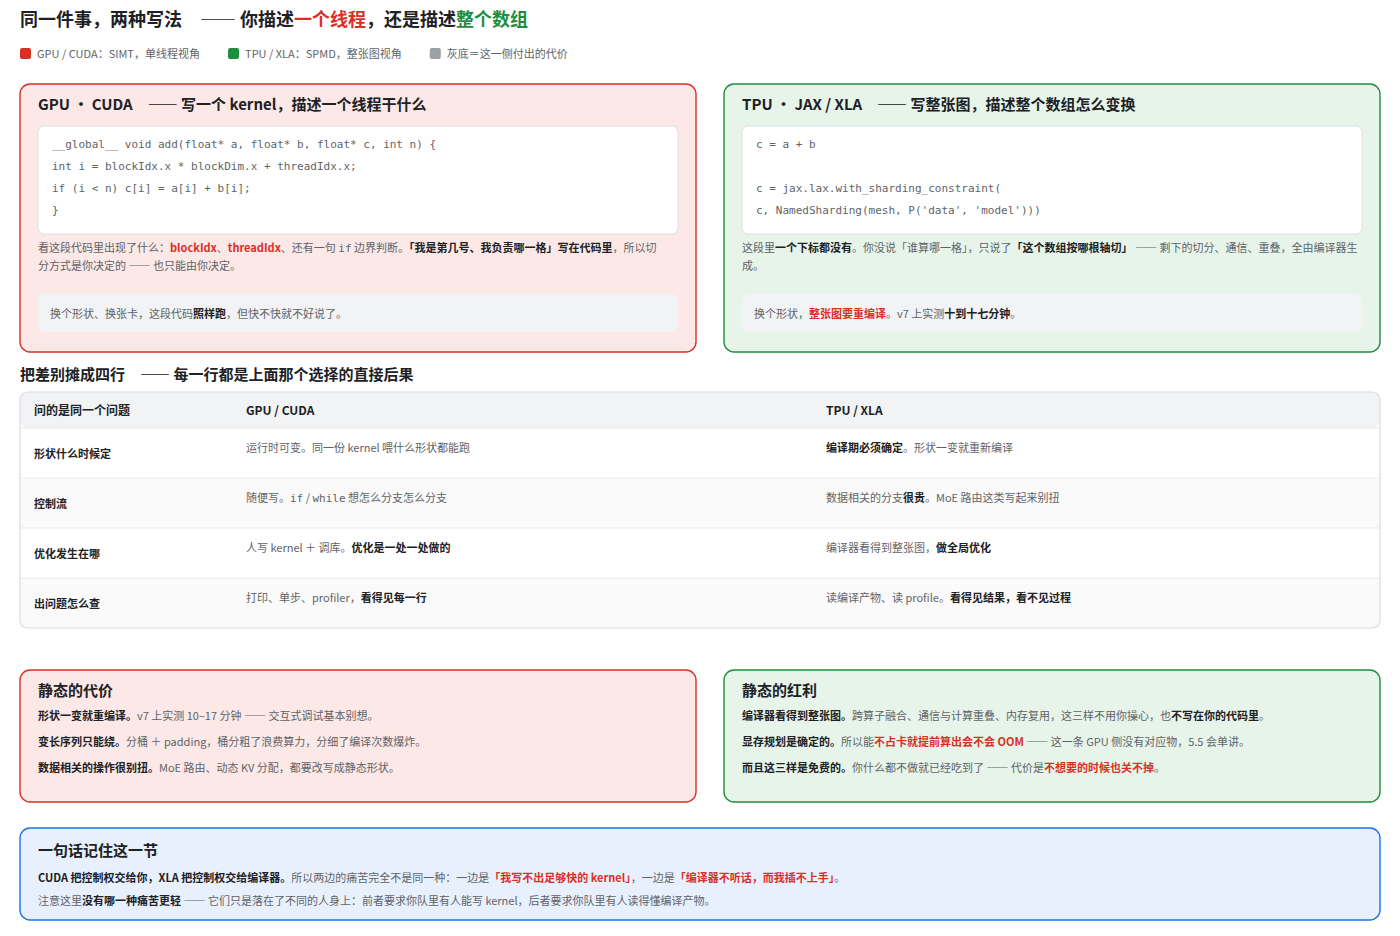
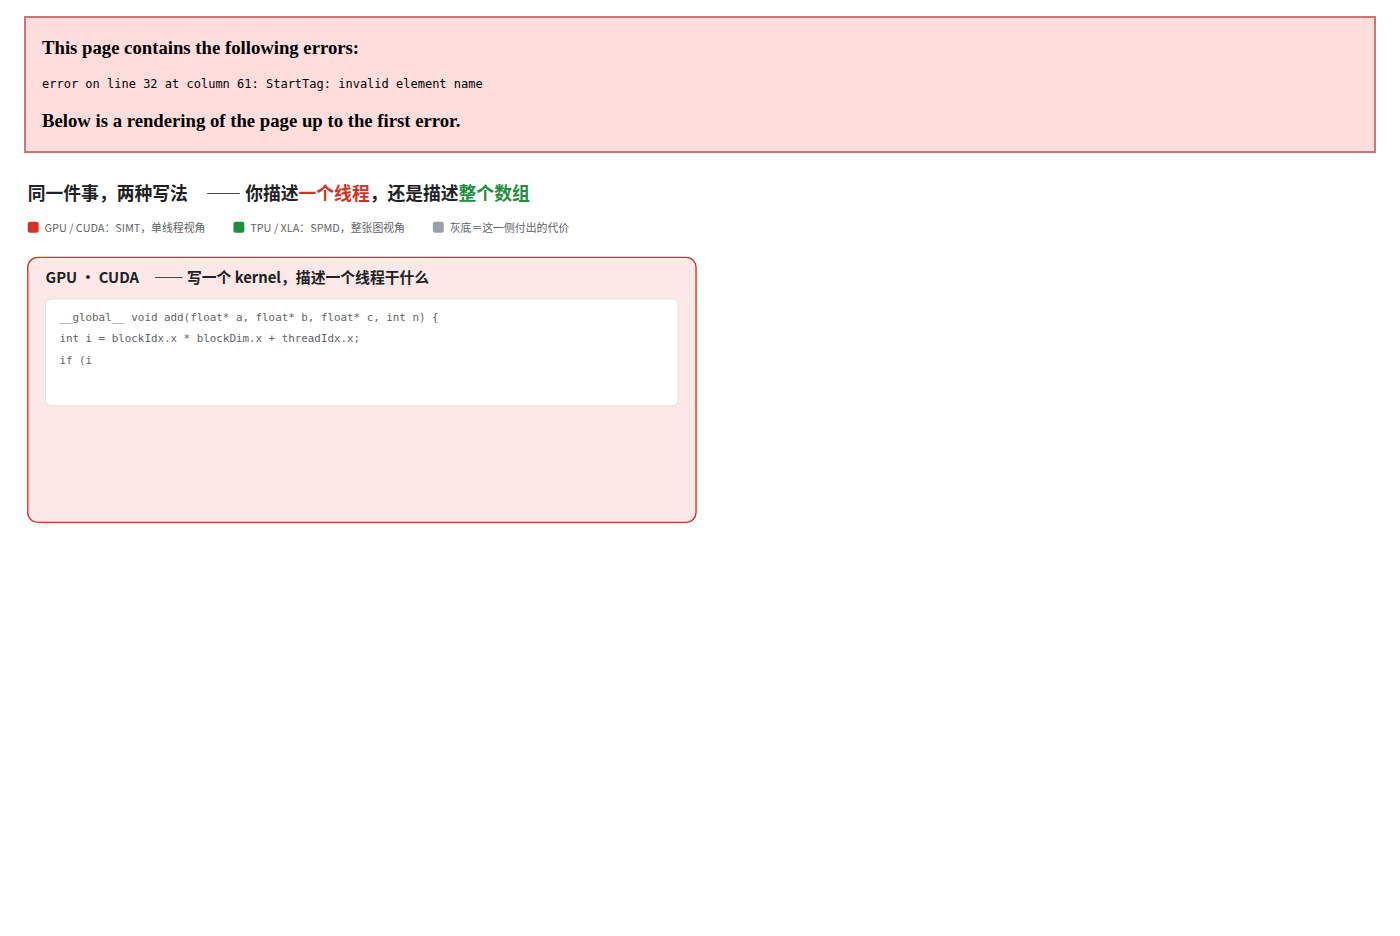
专题二 3.2：P-26 补「差的是一个平方」+ 把实体自检从 &nbsp; 拓宽到全部 &...;
Chris 复述理解时问到了最后一层：横向 128 条彼此完全隔离，
纵向倒是有前后顺序。顺着这个问题补上了前面一直欠的「为什么」——
之前每张图都在说横着走贵，但没给过量化的原因。

原因是一个数：让一组数任意互换位置，开关数按 N² 涨。
sublane 方向 8 见方 = 64，lane 方向 128 见方 = 16,384，差 256 倍。
所以 8 那个网络小到能摊进每条 lane、一周期转完；
128 那个只能全核共享一两个还得排队。

顺带修两个渲染 bug：

1. common.py 的实体自检原来只挡 &nbsp;，这次写 &#8194; 又中了——
   数字引用本来是合法 XML，但 para() 会先把 & 转成 &amp;，照样成字面量。
   自检拓宽到 &命名; / &#十进制; / &#x十六进制; 三种全挡。

2. 拓宽后立刻抓出一个存量 bug：fig_p1_mindset 手动做了
   .replace("<", "&lt;")，而 f.t() 内部已经 escape 过——双重转义，
   屏幕上一直显示的是字面的 &lt;。已修。P-1 在此之前一直是错的。

内部词自检 29 项 0 命中。

diff --git a/Courses/WebPages/topic-02.html b/Courses/WebPages/topic-02.html
@@ -3596,7 +3596,7 @@ footer a{text-decoration:none}
     每一条 lane 是一整套自己的 ALU。于是同一批数，
     <b>上下走和横着走根本不是一回事</b> ——&nbsp;</p>
 <figure class="fbox fwide" id="ms-p26">
-<svg viewBox="0 0 1400 882" width="100%" xmlns="http://www.w3.org/2000/svg" role="img" aria-label="TPU 向量寄存器 8×128 的方向不对称：沿 sublane 轴归约三步就完，沿 lane 轴归约必须经过 XLU，而公开资料称它慢且贵">
+<svg viewBox="0 0 1400 1008" width="100%" xmlns="http://www.w3.org/2000/svg" role="img" aria-label="TPU 向量寄存器 8×128 的方向不对称：沿 sublane 轴归约三步就完，沿 lane 轴归约必须经过 XLU，而公开资料称它慢且贵">
 <text x="20" y="26" class="ttl">同一张 8 × 128 的座位表　—— <tspan font-weight="700">上下走三步就完，横着走要另找一个单元</tspan></text>
 <rect x="20" y="48" width="11" height="11" rx="2" fill="#1e8e3e"/>
 <text x="37" y="58" class="sm">纵向 · 沿 sublane 轴（8）</text>
@@ -3869,10 +3869,14 @@ footer a{text-decoration:none}
 <text x="38" y="676" class="sec">⭐ 麻烦的是：神经网络最常做的那两个归约，方向恰好都是横的</text>
 <text x="38" y="702" class="xs">张量的<tspan font-weight="700" fill="#202124">最后一维默认铺在 lane 方向</tspan>上。而 <tspan class="mono" fill="#1967d2">softmax</tspan> 沿最后一维求和，<tspan class="mono" fill="#1967d2">RMSNorm</tspan> 也沿最后一维求和 —— <tspan font-weight="700" fill="#202124">两个最常见的算子，都撞在上面那条最贵的路上。</tspan></text>
 <text x="38" y="725" class="sm" fill="#202124">这就是为什么在 TPU 上，attention 里 softmax 那一段<tspan font-weight="700" fill="#202124">经常比你按 FLOP 算出来的贵得多</tspan>：<tspan font-weight="700" fill="#d93025">贵的不是算，是把数横着挪。</tspan></text>
-<rect x="20" y="770" width="1360" height="92" rx="10" fill="#fce8e6" stroke="#d93025" stroke-width="1.4"/>
-<text x="38" y="798" class="sec">⚠ 一个说法要收回：贵不是因为「没有连线」</text>
-<text x="38" y="824" class="xs">这张图早先的版本写着「列与列之间没有直连通路」——那是想当然，已经删掉。公开资料的说法是：跨 lane <tspan font-weight="700" fill="#202124">至少要过一趟 VMEM／XLU／SMEM</tspan> ——<tspan font-weight="700" fill="#d93025">贵在「出一趟寄存器堆」这个往返，不在缺一根线。</tspan></text>
-<text x="38" y="845" class="xs">下一张图把这个往返画出来。<tspan font-weight="700" fill="#202124">仍然没有出处的只剩一件事：XLU 的内部电路</tspan> ——公开资料只说它是个独立单元、而且慢，没说它里面长什么样。</text>
+<rect x="20" y="770" width="1360" height="104" rx="10" fill="#e0f2f0" stroke="#12786f" stroke-width="1.6"/>
+<text x="38" y="798" class="sec" fill="#12786f">⭐ 那为什么 8 那个方向便宜、128 那个方向就得专门做个单元？—— 差的是一个平方</text>
+<text x="38" y="824" class="xs">要让一组数<tspan font-weight="700" fill="#202124">任意互换位置</tspan>，需要的开关数按 <tspan font-weight="700" fill="#202124">N²</tspan> 涨。sublane 方向 <tspan font-weight="700" fill="#202124">8 见方 ＝ 64</tspan>；lane 方向 <tspan font-weight="700" fill="#202124">128 见方 ＝ 16,384</tspan> —— <tspan font-weight="700" fill="#d93025">差 256 倍。</tspan></text>
+<text x="38" y="847" class="xs">所以 8 那个网络<tspan font-weight="700" fill="#202124">小到可以摊进每一条 lane 里</tspan>，一个周期就转完；128 那个<tspan font-weight="700" fill="#202124">只能全核共享一两个</tspan>，还得排队。<tspan fill="#9aa0a6">⚠ N² 是数字设计通则，不是 TPU 的公开规格 —— 这里用它解释数量级。</tspan></text>
+<rect x="20" y="896" width="1360" height="92" rx="10" fill="#fce8e6" stroke="#d93025" stroke-width="1.4"/>
+<text x="38" y="924" class="sec">⚠ 一个说法要收回：贵不是因为「没有连线」</text>
+<text x="38" y="950" class="xs">这张图早先的版本写着「列与列之间没有直连通路」——那是想当然，已经删掉。公开资料的说法是：跨 lane <tspan font-weight="700" fill="#202124">至少要过一趟 VMEM／XLU／SMEM</tspan> ——<tspan font-weight="700" fill="#d93025">贵在「出一趟寄存器堆」这个往返，不在缺一根线。</tspan></text>
+<text x="38" y="971" class="xs">下一张图把这个往返画出来。<tspan font-weight="700" fill="#202124">仍然没有出处的只剩一件事：XLU 的内部电路</tspan> ——公开资料只说它是个独立单元、而且慢，没说它里面长什么样。</text>
 </svg>
 <figcaption>整张图就一件事：<b>同一个寄存器、同一批数，换个方向，代价完全不同</b>。绿的那一列是<b>纵向</b> —— 8 → 4 → 2 → 1，三步，全程没离开自己那套 ALU；红的那一行是<b>横向</b> —— 128 条 lane 各是一套硬件，数要横着走只能交给 <b>XLU</b>，而且往往还得绕一趟 VMEM。<b>黄带才是这张图真正要落的地方</b>：<code>softmax</code> 和 <code>RMSNorm</code> 都沿最后一维求和，而最后一维默认就铺在 lane 方向上 —— <b>最常做的那两个归约，恰好都撞在最贵的方向</b>。⚠ 底带那条不能跳过：<b>「列与列之间没有直连通路」是我给的解释，不是查到的</b>。</figcaption>
 </figure>
@@ -9221,7 +9225,7 @@ footer a{text-decoration:none}
 <rect x="38" y="126" width="640" height="108" rx="6" fill="#fff" stroke="#e0e0e0" stroke-width="1"/>
 <text x="52" y="148" class="mono" fill="#202124">__global__ void add(float* a, float* b, float* c, int n) {</text>
 <text x="52" y="170" class="mono" fill="#202124">    int i = blockIdx.x * blockDim.x + threadIdx.x;</text>
-<text x="52" y="192" class="mono" fill="#202124">    if (i &lt; n) c[i] = a[i] + b[i];</text>
+<text x="52" y="192" class="mono" fill="#202124">    if (i < n) c[i] = a[i] + b[i];</text>
 <text x="52" y="214" class="mono" fill="#202124">}</text>
 <text x="38" y="252" class="xs">看这段代码里出现了什么：<tspan font-weight="700" fill="#d93025">blockIdx</tspan>、<tspan font-weight="700" fill="#d93025">threadIdx</tspan>、还有一句 <tspan class="mono" fill="#1967d2">if</tspan> 边界判断。<tspan font-weight="700" fill="#202124">「我是第几号、我负责哪一格」写在代码里</tspan>，所以切</text>
 <text x="38" y="270" class="xs">分方式是你决定的 —— 也只能由你决定。</text>

diff --git a/Courses/tools/t02-figs/fig_p26_lane_direction.py b/Courses/tools/t02-figs/fig_p26_lane_direction.py
@@ -35,7 +35,8 @@ LX, RX, CWID = 20, 708, 672
 
 # ── 第三、四带 ────────────────────────────────────────────
 WHY_Y, WHY_H = DIR_Y + DIR_H + 26, 100
-BND_Y, BND_H = WHY_Y + WHY_H + 22, 92
+N2_Y, N2_H = WHY_Y + WHY_H + 22, 104
+BND_Y, BND_H = N2_Y + N2_H + 22, 92
 H = BND_Y + BND_H + 20
 
 
@@ -52,6 +53,7 @@ def build():
     _vertical(f)
     _horizontal(f)
     _why(f)
+    _n2(f)
     _bound(f)
     return f.out()
 
@@ -223,6 +225,25 @@ def _why(f):
          "这就是为什么在 TPU 上，attention 里 softmax 那一段"
          "<b>经常比你按 FLOP 算出来的贵得多</b>：<r>贵的不是算，是把数横着挪。</r>",
          "sm", 19, fill=INK)
+
+
+# ══════════════════════════════════════════════════════════════════════
+# 「为什么 8 便宜、128 贵」这个问题一定会被追到底，而答案是一个数。
+# 没有这一条，前面所有「贵」都只是断言。
+# ══════════════════════════════════════════════════════════════════════
+def _n2(f):
+    f.rect(20, N2_Y, 1360, N2_H, FILL[TL], TL, 1.6, 10)
+    f.t(38, N2_Y + 28, "⭐ 那为什么 8 那个方向便宜、128 那个方向就得专门做个单元？"
+                       "—— 差的是一个平方", "sec", TL)
+    y = para(f, 38, N2_Y + 54, 1324,
+             "要让一组数<b>任意互换位置</b>，需要的开关数按 <b>N²</b> 涨。"
+             "sublane 方向 <b>8 见方 ＝ 64</b>；lane 方向 <b>128 见方 ＝ 16,384</b> "
+             "—— <r>差 256 倍。</r>", "xs", 19)
+    para(f, 38, y + 4, 1324,
+         "所以 8 那个网络<b>小到可以摊进每一条 lane 里</b>，一个周期就转完；"
+         "128 那个<b>只能全核共享一两个</b>，还得排队。"
+         "<g>⚠ N² 是数字设计通则，不是 TPU 的公开规格 —— 这里用它解释数量级。</g>",
+         "xs", 19)
 
 
 # ══════════════════════════════════════════════════════════════════════

diff --git a/Courses/tools/tpu-micro/common.py b/Courses/tools/tpu-micro/common.py
@@ -79,12 +79,15 @@ class Fig:
         assert not _BADMARK.search(str(s)), (
             "f.t() 不解析行内标记，<b>/<r>/<g>/<code> 会连内容一起被浏览器丢掉；"
             "要强调请改用 para()，只要换颜色就传 fill 参数：%r" % s)
-        # `&nbsp;` 是 HTML 实体，**XML/SVG 里没有定义**。它不会报错，也不会变成空格 ——
-        # 浏览器把这六个字符原样画出来。写正文 HTML 写顺手了就会漏进来（P-26、P-27
-        # 各中一次），而且只有盯着渲染图才看得见。要不断行的空格用 U+00A0 本身。
-        assert "&nbsp;" not in str(s), (
-            "&nbsp; 在 SVG 里不是实体，会原样显示成字面量；"
-            "直接写空格，或用 U+00A0 字符本身：%r" % s)
+        # **任何 `&...;` 写法都别用。** 两种都会原样显示成字面量，而且都不报错：
+        #   · `&nbsp;` 这类命名实体 —— XML/SVG 里根本没定义（P-26、P-27 各中一次）
+        #   · `&#8194;` 这类数字引用 —— 本来是合法 XML，但 para() 会先把 `&`
+        #     转义成 `&amp;`，于是照样变成字面量（P-26 的 N² 带中过一次）
+        # 两次都只有盯着渲染图才看得出来。要特殊空格就直接写那个字符本身
+        # （U+00A0 不断行空格、U+2002 半角空格），要转义符号用 escape() 处理过的原字符。
+        assert not _re.search(r"&(?:[a-zA-Z]+|#\d+|#[xX][0-9a-fA-F]+);", str(s)), (
+            "SVG 里不要写 &...; ——命名实体没定义，数字引用会被二次转义，"
+            "两种都会原样显示成字面量；直接写那个字符本身：%r" % s)
         a = f' text-anchor="{anchor}"' if anchor else ""
         f = f' fill="{fill}"' if fill else ""
         wt = f' font-weight="{weight}"' if weight else ""

diff --git a/Courses/tools/t02-figs/fig_p1_mindset.py b/Courses/tools/t02-figs/fig_p1_mindset.py
@@ -85,7 +85,10 @@ def _col(f, x, w, c, head, code, note, cost):
     ch = 22 * len(code) + 20
     f.rect(x + 18, TOP + 42, w - 36, ch, "#fff", "#e0e0e0", 1, 6)
     for i, ln in enumerate(code):
-        f.t(x + 32, TOP + 64 + i * 22, ln.replace("<", "&lt;"), "mono", INK)
+        # f.t() 内部已经 escape 过了，这里再手动转一次会变成 `&amp;lt;`，
+        # 屏幕上显示的就是字面的 `&lt;`。2026-08-31 由 common.py 新加的
+        # 实体自检抓出来 —— 在此之前它一直是错的。
+        f.t(x + 32, TOP + 64 + i * 22, ln, "mono", INK)
 
     y = para(f, x + 18, TOP + 60 + ch, w - 36, note, "xs", 18)
 
